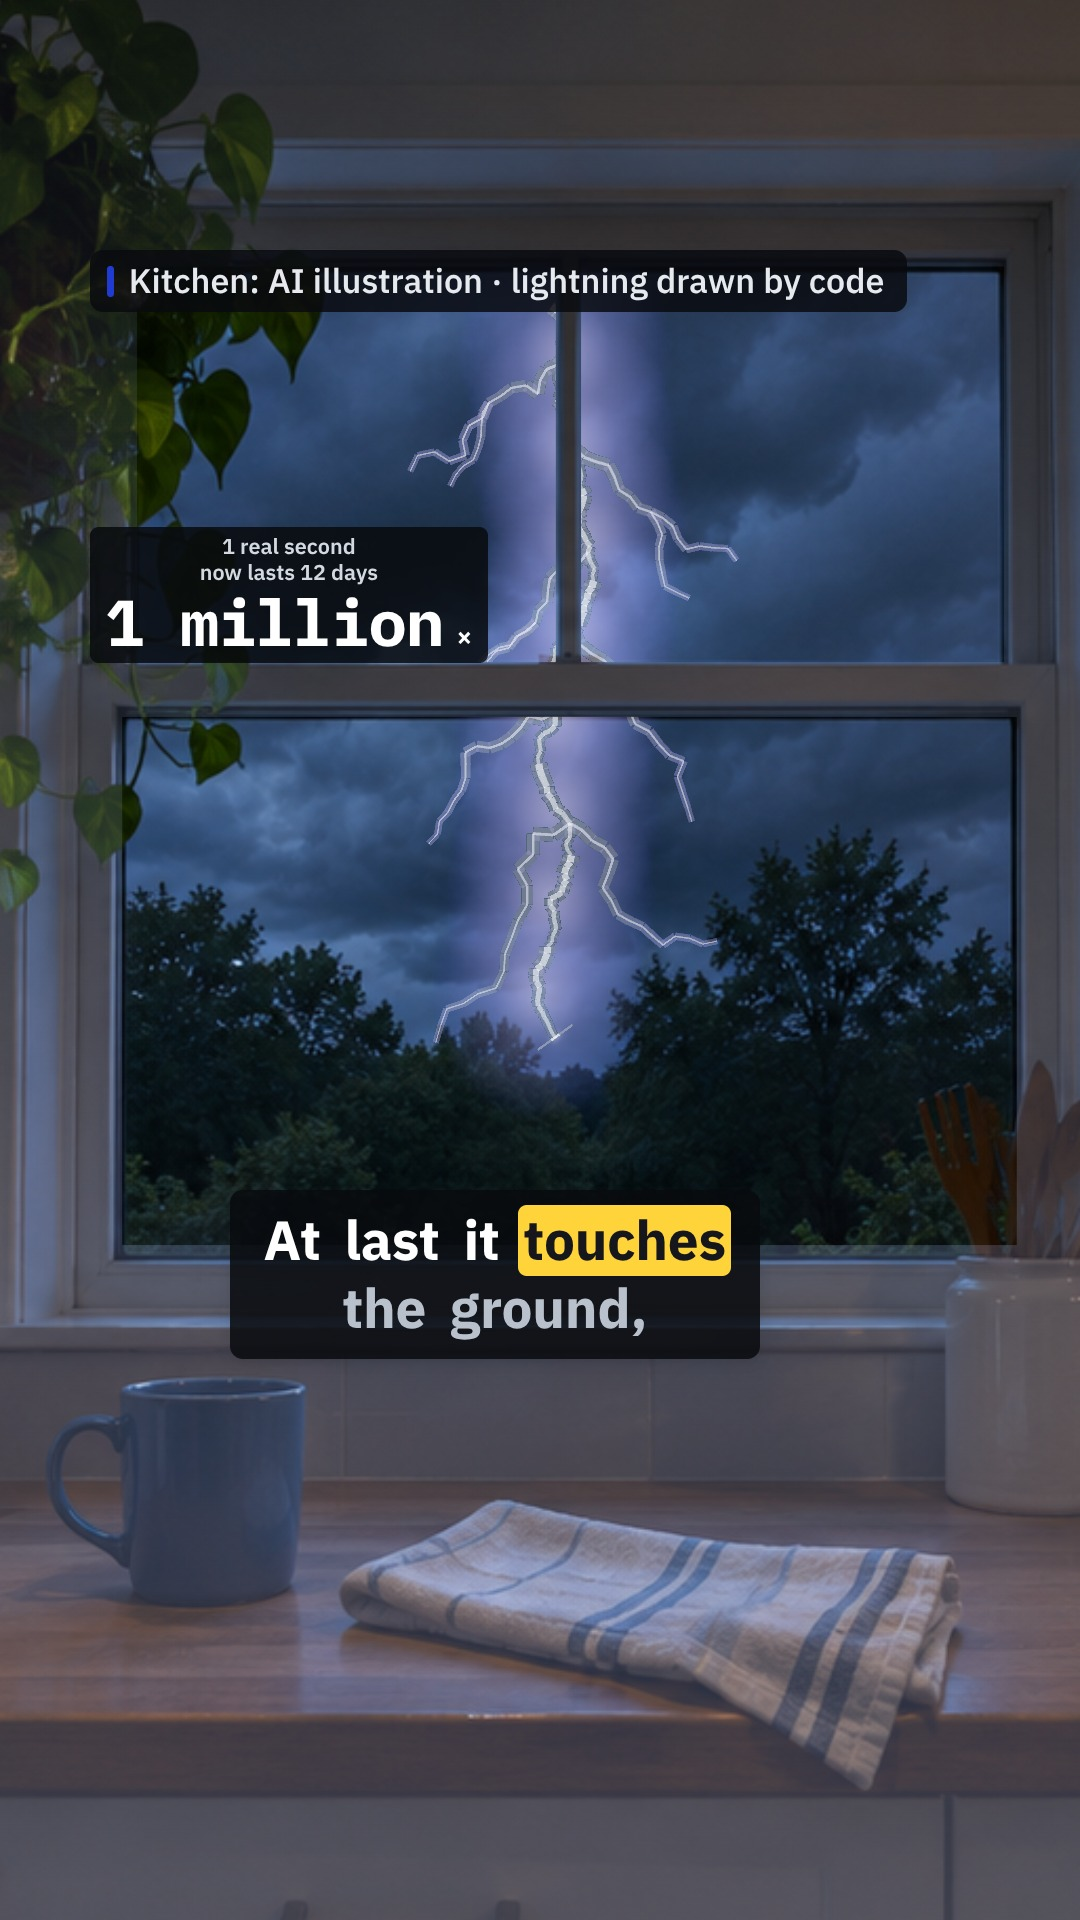
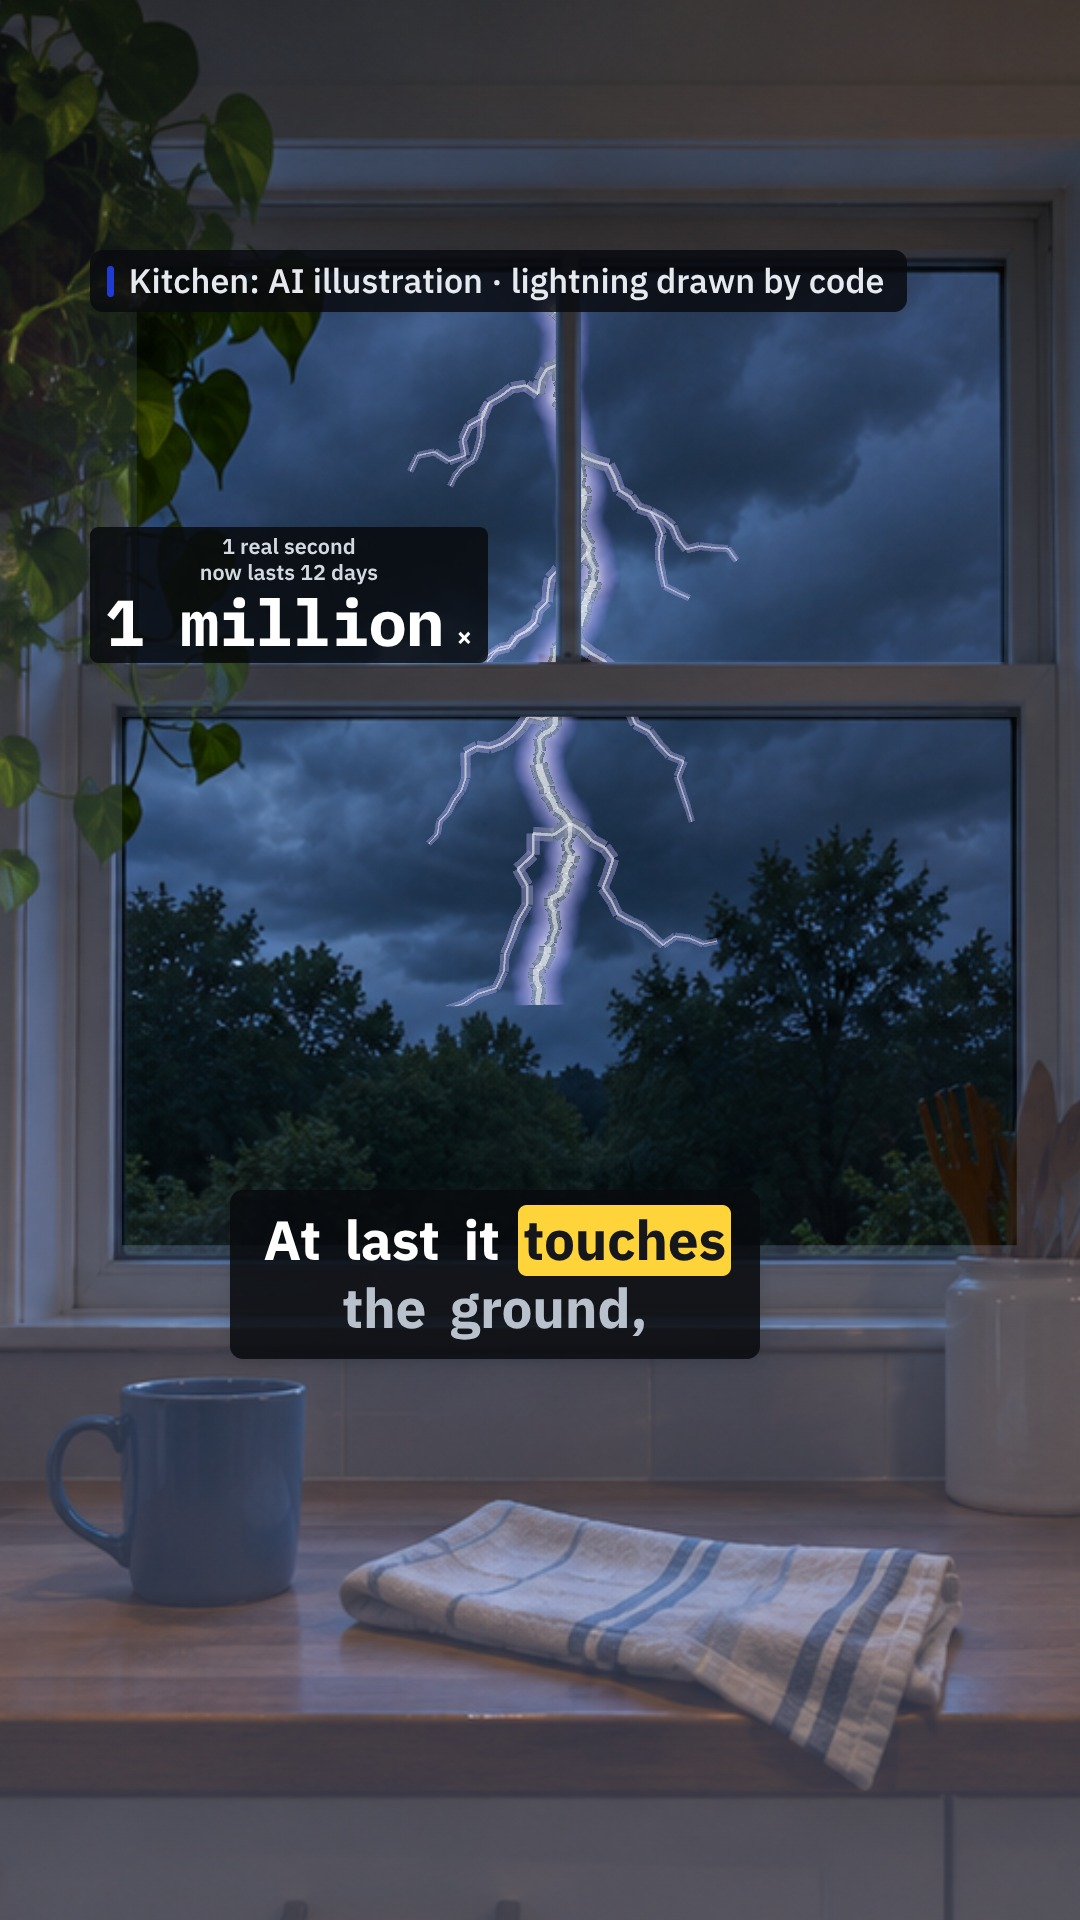
Lightning: halo is a soft glow along the channel (no box edges), the channel runs down to the treeline and disappears behind it; room relight excludes the glass
Claude-Session: https://claude.ai/code/session_0192s8Y3nHgGCCsvNARxNLPn

Changed region(s): [[0.3972, 0.375, 0.6111, 0.5938], [0.4278, 0.1562, 0.6111, 0.3438]]

diff --git a/films/channels/physics/set/plates.js b/films/channels/physics/set/plates.js
@@ -86,8 +86,9 @@ export const createPlates = ({ scene, camera, W, H, FILM, canvas }) => {
   const drawFg = (it, t, k) => { const r = it.p.relight, im = it.imgs[0]; if (!r || !im || !im.naturalWidth) return; if (!fgc.parentNode) canvas.parentNode.insertBefore(fgc, canvas.nextSibling);
     const pw = im.naturalWidth, ph = im.naturalHeight, cs = Math.max(W / pw, H / ph), sf = shiftAt(it, t), x0 = (W - pw * cs) / 2 - sf.x * sf.ppm * cs, y0 = (H - ph * cs) / 2 + sf.y * sf.ppm * cs, d = Math.max(0, Math.min(1, (t - it.p.t0) / (it.p.t1 - it.p.t0))), zz = 1 + (it.p.push ?? 0.05) * d, a = Math.max(0, Math.min(1, Math.min((t - it.p.t0) / (it.p.fade ?? 0.35), (it.p.t1 - t) / (it.p.fade ?? 0.35))));
     const g = fgc.getContext("2d"); g.setTransform(1, 0, 0, 1, 0, 0); g.globalCompositeOperation = "source-over"; g.clearRect(0, 0, W, H); g.globalAlpha = a; g.translate(W / 2, H / 2); g.scale(zz, zz); g.translate(-W / 2, -H / 2); g.drawImage(im, x0, y0, pw * cs, ph * cs);
-    if (k > 0.004) { g.globalCompositeOperation = "screen"; const gr = g.createLinearGradient(0, y0, 0, y0 + ph * cs); gr.addColorStop(0, `rgba(${r.color.join(",")},${0.08 * k})`); gr.addColorStop(1, `rgba(${r.color.join(",")},${0.5 * k})`); g.fillStyle = gr; g.fillRect(0, 0, W, H); }
-    g.globalCompositeOperation = "destination-out"; g.globalAlpha = 1; g.fillStyle = "#000"; for (const poly of r.glass) { g.beginPath(); poly.forEach(([x, y], i) => (i ? g.lineTo(x0 + x * cs, y0 + y * cs) : g.moveTo(x0 + x * cs, y0 + y * cs))); g.closePath(); g.fill(); }
+    if (k > 0.004) { g.save(); g.globalCompositeOperation = "screen"; g.beginPath(); g.rect(x0, y0, pw * cs, ph * cs); for (const poly of r.glass) { poly.forEach(([x, y], i) => (i ? g.lineTo(x0 + x * cs, y0 + y * cs) : g.moveTo(x0 + x * cs, y0 + y * cs))); g.closePath(); } g.clip("evenodd");   // the room is lit, the glass is not
+      const gr = g.createLinearGradient(0, y0, 0, y0 + ph * cs); gr.addColorStop(0, `rgba(${r.color.join(",")},${0.08 * k})`); gr.addColorStop(1, `rgba(${r.color.join(",")},${0.5 * k})`); g.fillStyle = gr; g.fillRect(0, 0, W, H); g.restore(); }
+    g.globalCompositeOperation = "destination-out"; g.globalAlpha = 1; g.fillStyle = "#000"; for (const poly of (r.sky || r.glass)) { g.beginPath(); poly.forEach(([x, y], i) => (i ? g.lineTo(x0 + x * cs, y0 + y * cs) : g.moveTo(x0 + x * cs, y0 + y * cs))); g.closePath(); g.fill(); }   // the bolt shows only where this cut is: the sky above the treeline, between the sashes
     g.setTransform(1, 0, 0, 1, 0, 0); g.globalCompositeOperation = "source-over"; fgc.style.display = "block"; fgOn = true; };
   const relight = (t, k) => { const it = active(t), r = it && it.p.relight; if (!r) { if (fgOn) { fgc.style.display = "none"; fgOn = false; } return; } drawFg(it, t, k); if (k < 0.004) { if (rlOn) { rl.style.display = "none"; rlOn = false; } return; }
     if (!rl.parentNode) canvas.parentNode.insertBefore(rl, canvas); const g = rl.getContext("2d"), sf = shiftAt(it, t), cs = Math.max(W / (it.imgs[0].naturalWidth || 1672), H / (it.imgs[0].naturalHeight || 941)), pw = it.imgs[0].naturalWidth, ph = it.imgs[0].naturalHeight;

diff --git a/films/channels/physics/lf01/build.py b/films/channels/physics/lf01/build.py
@@ -321,10 +321,10 @@ PLATE07 = "../lf01/art/owner/plates/plate-07-storm-16x9.png"; PLATE07_9 = "../lf
 _w7 = lambda px, py, z=-1.0: [round((px - 264.5) / 1290 * -z, 4), round(0.4 + (470.5 - py) / 1290 * -z, 4), z]
 _p07 = {"id": "storm", "file": PLATE07, "file9": PLATE07_9, "push": 0.05, "parallax": 0, "fade": 0.4,
         "cam3": {"pos": [0, 0.4, 0], "target": [0, 0.396, -1], "fov": 29.5},
-        "relight": {"color": [170, 190, 255], "glass": [[[525, 0], [1240, 0], [1240, 640], [525, 640]]]},
-        "anchor": {"dark": True, "rig": {"kind": "storm", "pos": _w(880, 40), "scale": 0.0312, "thk": 1.25}},
+        "relight": {"color": [170, 190, 255], "glass": [[[525, 0], [1240, 0], [1240, 640], [525, 640]]], "sky": [[[525, 0], [1240, 0], [1240, 381], [1190, 350], [1150, 418], [1110, 385], [1070, 369], [1030, 420], [990, 470], [950, 462], [910, 466], [870, 464], [830, 490], [790, 492], [750, 492], [710, 400], [690, 426], [650, 378], [610, 319], [570, 304], [525, 276]]]},
+        "anchor": {"dark": True, "rig": {"kind": "storm", "pos": _w(880, 40), "scale": 0.0381, "thk": 1.25}},
         "p9": {"native9": True, "cam3": {"pos": [0, 0.4, 0], "target": [0, 0.396, -1], "fov": 40.1},
-               "relight": {"color": [170, 190, 255], "glass": [[[73, 141], [272, 141], [272, 329], [73, 329]], [[284, 141], [485, 141], [485, 329], [284, 329]], [[66, 355], [491, 355], [491, 606], [66, 606]]]},
+               "relight": {"color": [170, 190, 255], "glass": [[[73, 141], [272, 141], [272, 329], [73, 329]], [[284, 141], [485, 141], [485, 329], [284, 329]], [[66, 355], [491, 355], [491, 606], [66, 606]]], "sky": [[[73, 141], [272, 141], [272, 329], [73, 329]], [[284, 141], [485, 141], [485, 329], [284, 329]], [[66, 355], [491, 355], [491, 470], [440, 440], [410, 425], [380, 490], [66, 495]]]},
                "anchor": {"dark": True, "rig": {"kind": "storm", "pos": _w7(270, 165), "scale": 0.0418, "thk": 1.25}}}}
 PLATE01 = "../lf01/art/owner/plates/plate-01-wide-16x9.png"
 PLATE01_9 = "../lf01/art/owner/plates/plate-01-wide-9x16.png" if (HERE / "art/owner/plates/plate-01-wide-9x16.png").exists() else PLATE01
